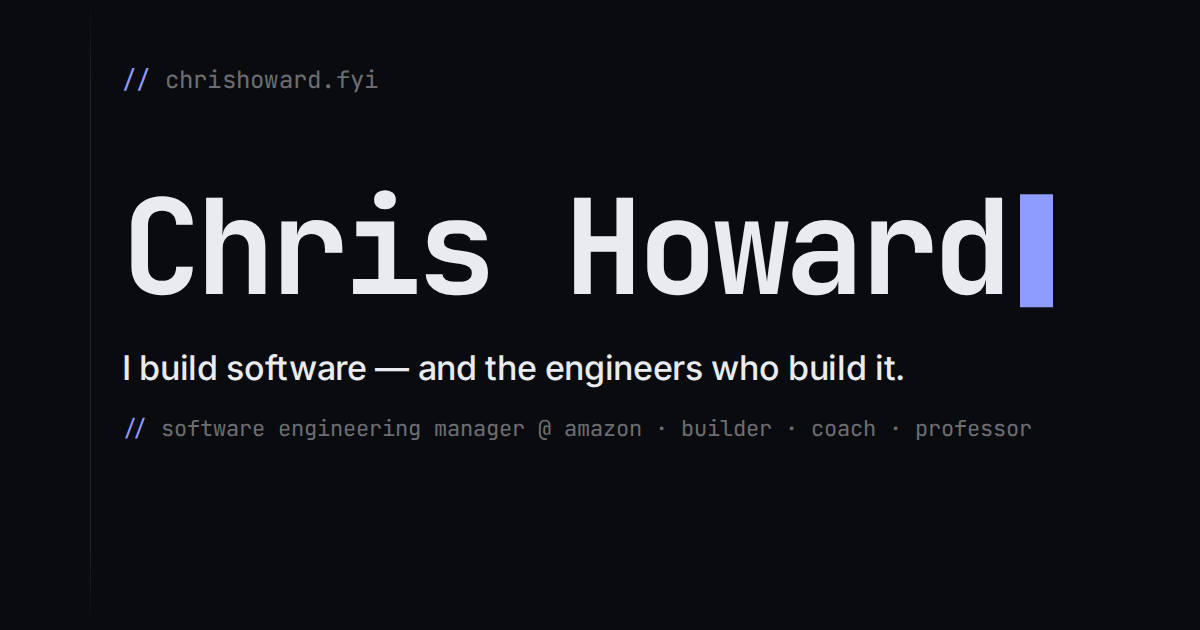
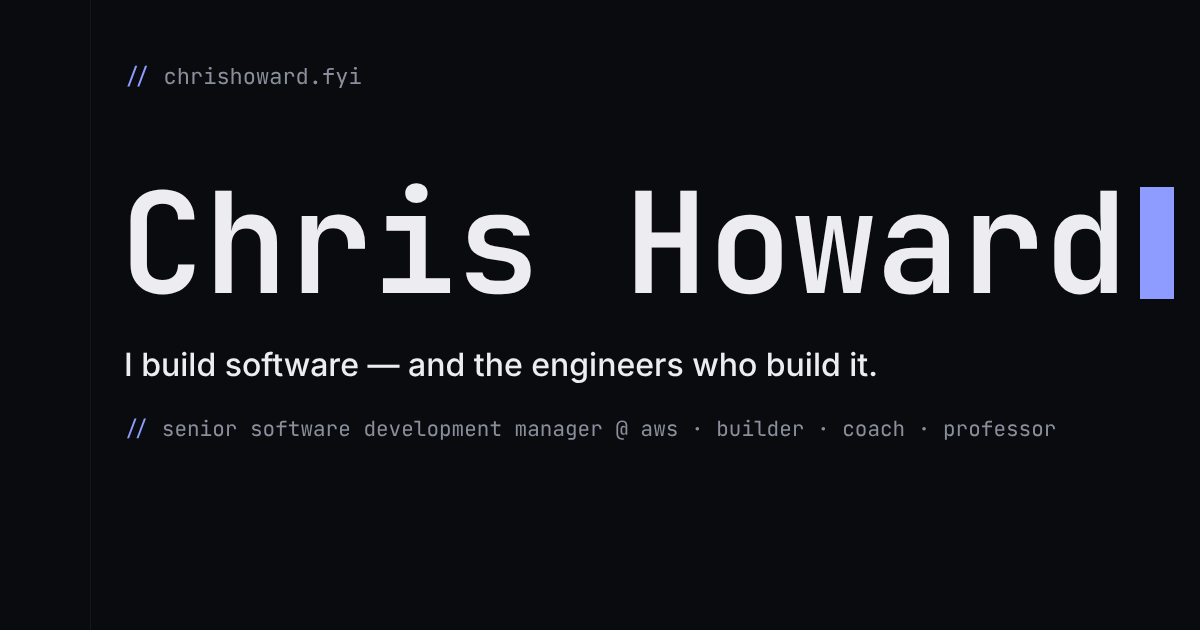
Post-launch fixes: social preview title, smaller Learn Differently image (#4)
Social preview: current title in og image and meta

diff --git a/index.html b/index.html
@@ -7,13 +7,13 @@
 <meta name="description" content="Chris Howard — builder, coach, and founder of Chow.Works. Tech as a force for good, out of Washington, DC." />
 <meta name="theme-color" content="#0a0b0f" />
 <meta property="og:title" content="Chris Howard" />
-<meta property="og:description" content="Software Engineering Manager at Amazon and CS professor at UMGC. Founder of Chow.Works — builder, coach, tech for social good." />
+<meta property="og:description" content="Senior Software Development Manager at AWS and Associate Professor at UMGC. Founder of Chow.Works — builder, coach, tech for social good." />
 <meta property="og:type" content="website" />
 <meta property="og:url" content="https://chrishoward.fyi/" />
 <meta property="og:image" content="https://chrishoward.fyi/og-image.png" />
 <meta property="og:image:width" content="1200" />
 <meta property="og:image:height" content="630" />
-<meta property="og:image:alt" content="Chris Howard — Software Engineering Manager at Amazon" />
+<meta property="og:image:alt" content="Chris Howard — Senior Software Development Manager at AWS" />
 <meta name="twitter:card" content="summary_large_image" />
 <meta name="twitter:image" content="https://chrishoward.fyi/og-image.png" />
 <link rel="canonical" href="https://chrishoward.fyi/" />
@@ -310,6 +310,15 @@
   .proj.wide .split { display: flex; flex-direction: column; flex: 1; }
   .proj.wide .tracks { flex-direction: row; flex-wrap: wrap; }
   .proj.wide .tracks li { flex: 1 1 200px; }
+  @media (min-width: 761px) {
+    .proj.wide .split { flex-direction: row; align-items: stretch; }
+    .proj.wide .shot { flex: 0 0 50%; aspect-ratio: auto; border-bottom: 0; border-right: 1px solid var(--bg-line); display: flex; align-items: center; background: #f6f6f4; }
+    .proj.wide .shot img { height: auto; object-fit: contain; }
+    .proj.wide .proj-body > p:not(.hook) { display: none; }
+    .proj.wide .tracks { gap: 6px; }
+    .proj.wide .tracks li { flex: none; padding: 5px 9px; font-size: 11px; white-space: nowrap; }
+    .proj.wide .tracks li span { display: none; }
+  }
   .tab {
     display: flex;
     align-items: center;
@@ -613,9 +622,9 @@
             <p class="hook">For workforce programs buried in spreadsheets and funder reports.</p>
             <p>Five products on one learner record, from three-minute lessons to AI-scored job simulations to talent matching.</p>
             <ul class="tracks" aria-label="How it works">
-              <li><b>📚 Learn</b> · a three-minute lesson on one skill</li>
-              <li><b>🤖 Practice</b> · real work alongside an AI agent</li>
-              <li><b>✅ Prove</b> · scored on the spot, a verified skill on the record</li>
+              <li><b>📚 Learn</b><span> · a three-minute lesson on one skill</span></li>
+              <li><b>🤖 Practice</b><span> · real work alongside an AI agent</span></li>
+              <li><b>✅ Prove</b><span> · scored on the spot, a verified skill on the record</span></li>
             </ul>
             <div class="tags"><span class="tag">React</span><span class="tag">TypeScript</span><span class="tag">PostgreSQL</span><span class="tag">Claude API</span><span class="tag">LTI</span></div>
           </div>
